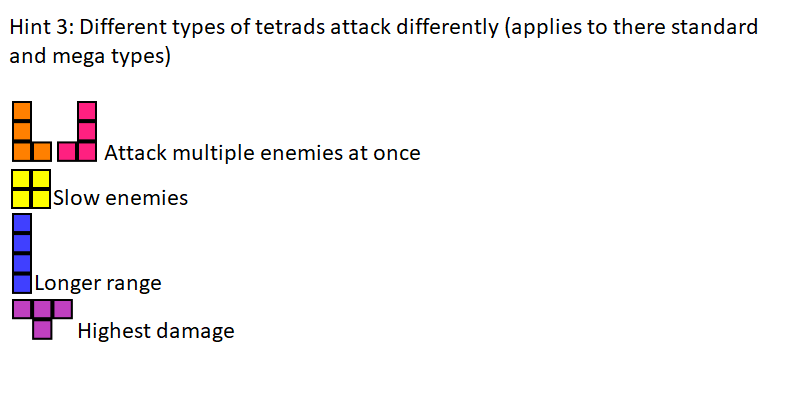
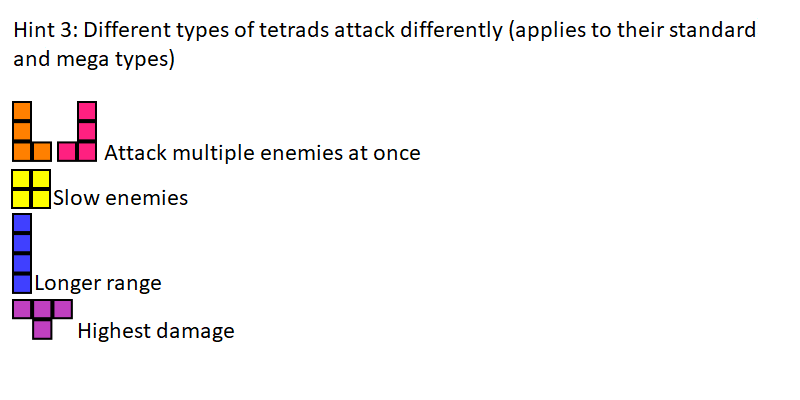
Version 1.17.0

Changed region(s): [[0.0, 0.03, 0.9688, 0.12], [0.0, 0.12, 0.2188, 0.18]]

diff --git a/built/src/Main.js b/built/src/Main.js
@@ -19,13 +19,13 @@ function start() {
     levelLoaders[i++] = getCurlELevel;
     levelLoaders[i++] = getThreebarLevel;
     levelLoaders[i++] = getZLevel;
-    levelLoaders[i++] = getCircuitWithSTetrads;
     levelLoaders[i++] = getCenterSquareLevel;
     levelLoaders[i++] = getPepperedLevel;
     levelLoaders[i++] = getFigureEightLevel;
     levelLoaders[i++] = getNineSquareLevel;
     levelLoaders[i++] = getPowerButtonLevel2;
     levelLoaders[i++] = getFourSquareLevel;
+    levelLoaders[i++] = getCircuitWithSTetrads;
     levelLoaders[i++] = getQuadCupLevel;
     levelLoaders[i++] = getNineSquareLevel2;
     levelLoaders[i++] = getPowerButtonLevel;
@@ -77,6 +77,7 @@ function handleLevelOver() {
             setIntermediateScreen("You beat level " + makeLevelUserDisplayable(currentLevelIndex) + ". Click anywhere to load the next level", currentLevel.view);
             currentLevelIndex++;
             AudioService.playVictorySound();
+            updateLevelSelector(document, currentLevelIndex);
         }
     }
     else {
@@ -113,6 +114,10 @@ function populateLevelSelector(document, levelLoaders) {
         loadLevel(parseInt(levelSelector.options[levelSelector.selectedIndex].value));
         setIntermediateScreen("Press anywhere to start the level", currentLevel.view);
     };
+}
+function updateLevelSelector(document, level) {
+    var levelSelector = Util.checkType(document.getElementById('levels'), HTMLSelectElement);
+    levelSelector.selectedIndex = level;
 }
 function setupRestartLevelButton(document) {
     var restartButton = Util.checkType(document.getElementById('restart-button'), HTMLButtonElement);

diff --git a/Changelog.html b/Changelog.html
@@ -15,6 +15,10 @@
 <html lang="en">
 <body>
 <h2>Changelog</h2>
+<h3>Version 1.17.0(8/25/2018)</h3>
+Fixed typo in hint 3<br>
+Move the level that was previously 7, 6 spots later<br>
+Modify level selector so that it reflects the current level, fixing a related bug<br>
 <h3>Version 1.16.0(8/23/2018)</h3>
 Add hints that display between levels<br>
 <h3>Version 1.15.0(8/22/2018)</h3>
